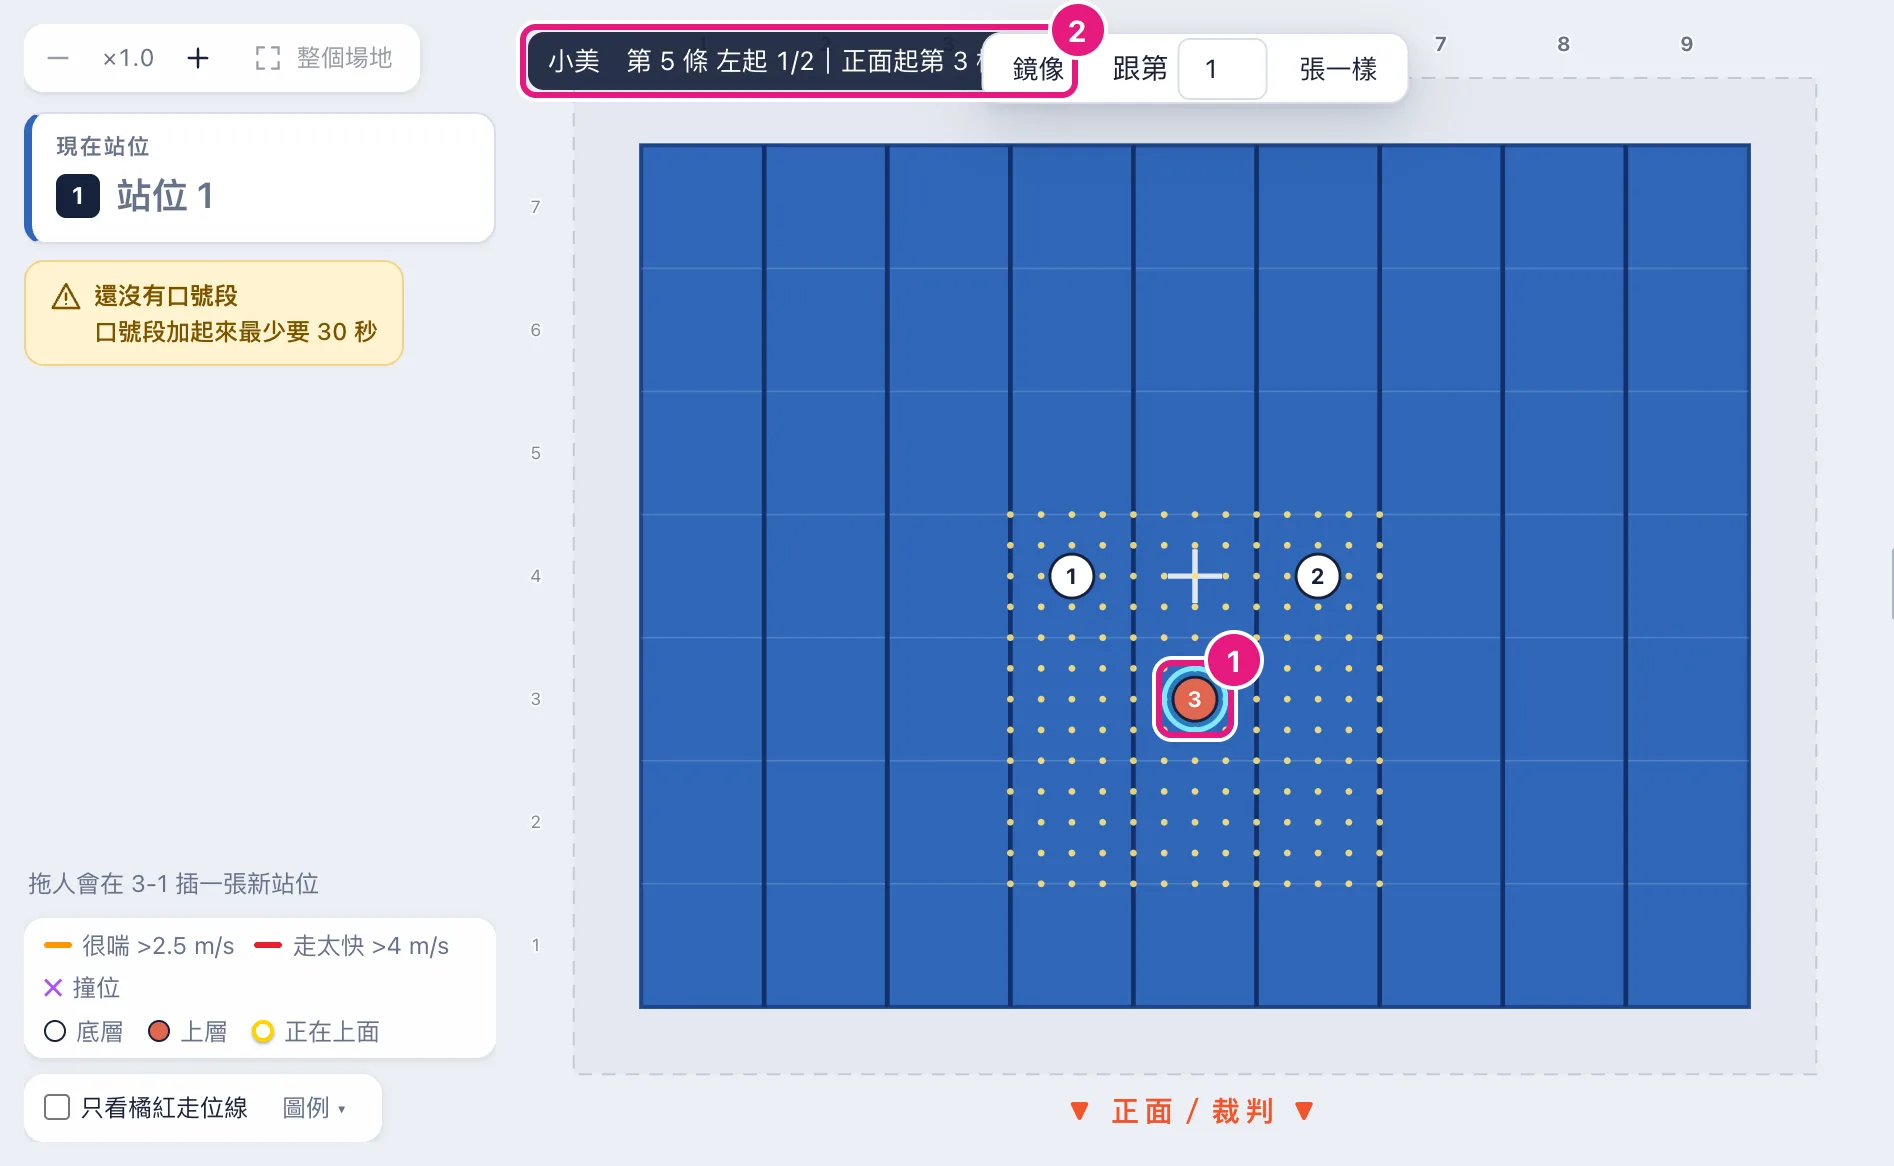
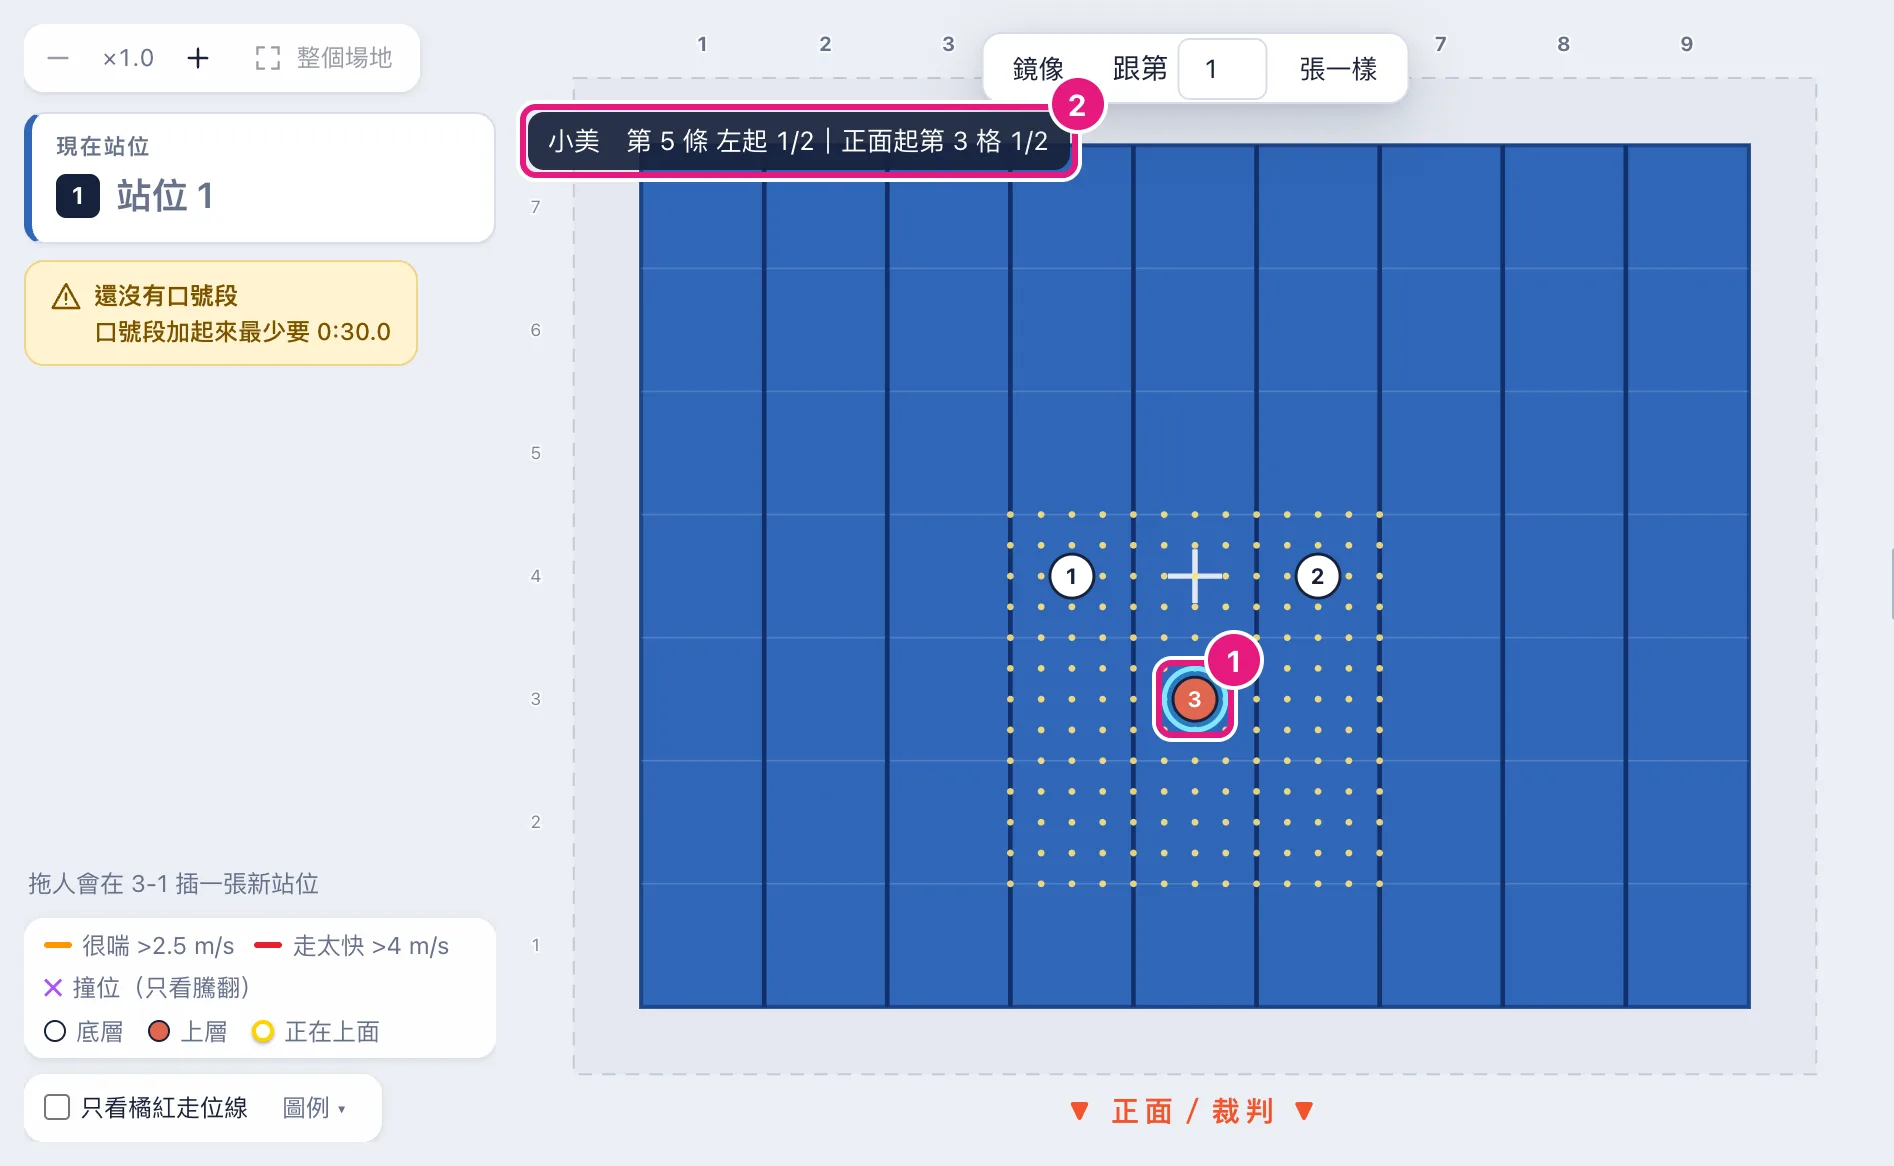
拖選到的人時，左上角「第幾條、第幾格」的位置文字排在選人工具列下面，不再被工具列蓋住；使用說明的拖人截圖跟著重拍（#232）

Changed region(s): [[0.2492, 0.0, 0.5919, 0.1544], [0.1558, 0.2161, 0.2181, 0.3087], [0.0623, 0.8336, 0.1246, 0.8645]]

diff --git a/src/lib/components/Field.svelte b/src/lib/components/Field.svelte
@@ -1252,10 +1252,11 @@
 		font-variant-numeric: tabular-nums;
 		pointer-events: none;
 	}
+	/* 選人工具列出現時（--tools-h）排在它下面，拖人時不被蓋住 */
 	.readout {
 		position: absolute;
 		left: 4px;
-		top: 4px;
+		top: calc(4px + var(--tools-h, 0px));
 		padding: 5px 10px;
 		background: rgba(22, 33, 58, 0.92);
 		color: #fff;
